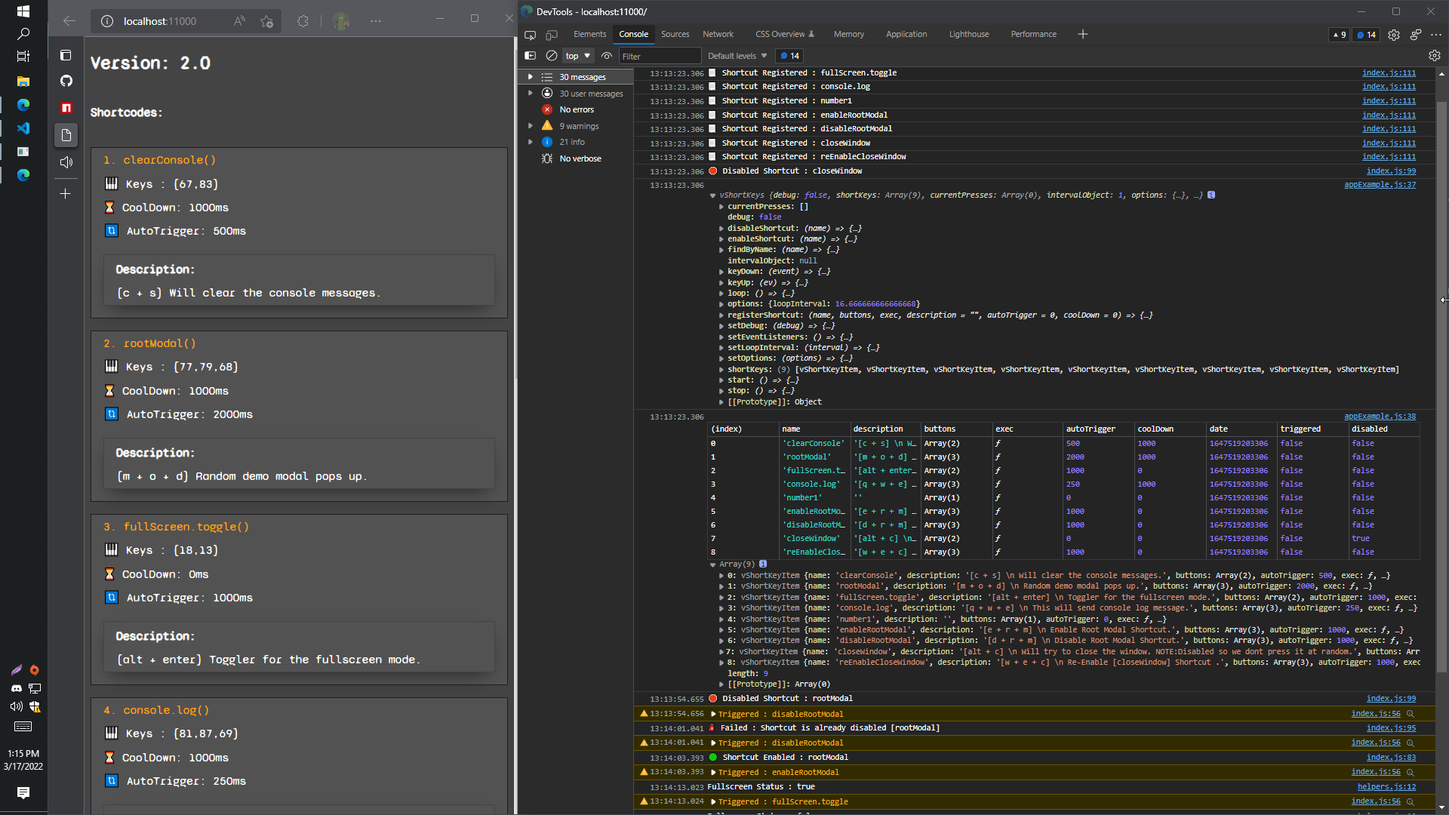
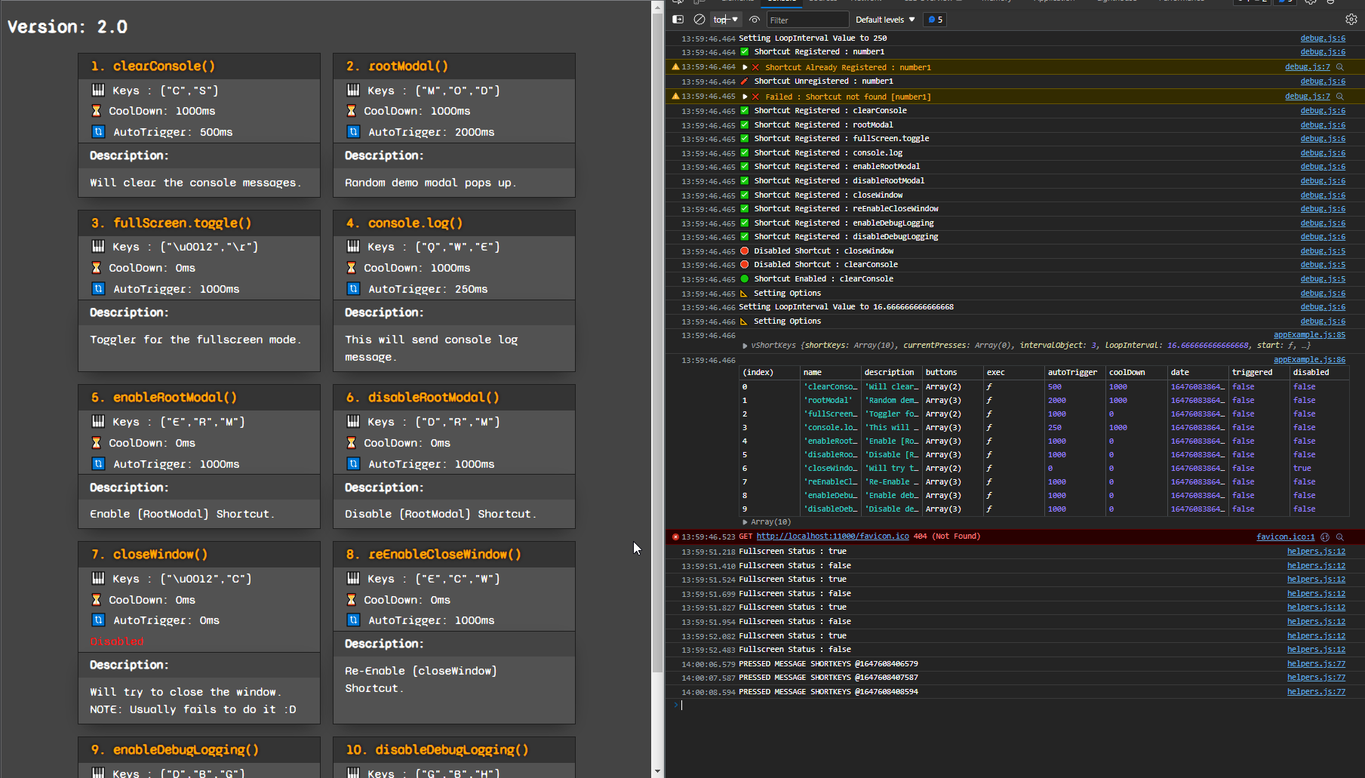
Added .unregisterShortcut() method. Updated example code with a sampleList that gets passed into .map() for registerShortcut(). Added few example lines that show enable/disable/register/unregister shortkey options. Update to Readme to reflect these.

diff --git a/EXAMPLE/public/scripts/vShortKeys.js b/EXAMPLE/public/scripts/vShortKeys.js
@@ -15,7 +15,7 @@
   \**************************************/
 /***/ ((__unused_webpack_module, __unused_webpack_exports, __webpack_require__) => {
 
-eval("//* Loading of some random things to make the example work\r\nconst { closeWindowFunc, fullScreen, toggleRootModal, messageConsoleDemo, clearConsole } = __webpack_require__(/*! ./helpers */ \"./EXAMPLE/source/helpers.js\");\r\n\r\n\r\n//?- - - - - - - - - - -\r\nconst vShortKeys = __webpack_require__(/*! ../../ */ \"./index.js\");\r\nvar vsk = new vShortKeys();\r\n\r\nvsk.setOption({ debug: true, interval: 250 });\r\n\r\nvsk.setOption({ interval: (1000 / 60) });\r\n\r\n//* vShortKeys.registerShortcut(name, buttons, callback, description, autoTrigger, coolDown)\r\n//? Super basic example:\r\nvsk.registerShortcut(\"number1\", [49], () => console.log('YEA Demo Button 1'));\r\n\r\n//? Register few shortcuts:\r\nvsk.registerShortcut(\"clearConsole\", [67, 83], clearConsole, \"Will clear the console messages.\", 500, 1000);\r\nvsk.registerShortcut(\"rootModal\", [77, 79, 68], toggleRootModal, \"Random demo modal pops up.\", 2000, 1000);\r\nvsk.registerShortcut(\"fullScreen.toggle\", [18, 13], fullScreen.toggle, \"Toggler for the fullscreen mode.\", 1000, 0);\r\nvsk.registerShortcut(\"console.log\", [81, 87, 69], messageConsoleDemo, \"This will send console log message.\", 250, 1000);\r\n\r\n//? Enable and Disable \"rootModal\" Shortcut using 2 other.\r\nvsk.registerShortcut(\"enableRootModal\", [69, 82, 77], () => vsk.enableShortcut(\"rootModal\"), \"Enable Root Modal Shortcut.\", 1000, 0);\r\nvsk.registerShortcut(\"disableRootModal\", [68, 82, 77], () => vsk.disableShortcut(\"rootModal\"), \"Disable Root Modal Shortcut.\", 1000, 0);\r\n\r\n//? Probably will not work cuz it needs to open that window before chrome allows you to close it.\r\nvsk.registerShortcut(\"closeWindow\", [18, 67], closeWindowFunc, \"Will try to close the window. NOTE:Disabled so we dont press it at random.\", 0, 0);\r\nvsk.registerShortcut(\"reEnableCloseWindow\", [69, 67, 87], () => vsk.enableShortcut(\"closeWindow\"), \"Re-Enable [closeWindow] Shortcut .\", 1000, 0);\r\n\r\n//? Enable and Disable debug logging using the shortcuts\r\nvsk.registerShortcut(\"enableDebugLogging\", [68, 66, 71], () => vsk.setOption({ debug: true }), \"Enable debug logging\", 1000, 0);\r\nvsk.registerShortcut(\"disableDebugLogging\", [71, 66, 72], () => vsk.setOption({ debug: false }), \"Disable debug logging\", 1000, 0);\r\n\r\n\r\n//? Disable the one that can close the tab. [init demo]\r\nvsk.disableShortcut(\"closeWindow\");\r\n\r\nvsk.setOption({ debug: false });\r\n//!---------------------------------------------\r\n\r\n\r\nconsole.log(vsk);\r\nconsole.table(vsk.shortKeys);\r\n\r\n\r\nvar skList = vsk.shortKeys;\r\n\r\nvar stringShortKeys = '';\r\nfor (let i = 0; i < skList.length; i++) {\r\n  stringShortKeys += `\r\n                        <div class=\"singleShotCode\">\r\n                            <p class=\"name\"><span class=\"number\">${i + 1}. ${skList[i].name}()</span></p>\r\n                            <p>🎹 Keys : ${JSON.stringify(skList[i].buttons.map(item => String.fromCharCode(item)))}</p>\r\n                            <p class=\"delay\">⏳ CoolDown: ${skList[i].coolDown}ms</p>\r\n                            <p class=\"delay\">🔃 AutoTrigger: ${skList[i].autoTrigger}ms</p>\r\n                            ${(skList[i].disabled == true) ? '<p style=\"color:red;\">Disabled</p>' : ''}\r\n                            <div class=\"description\">\r\n                                <h4>Description:</h4>\r\n                                <p>${skList[i].description}</p>\r\n                            </div>\r\n                        </div>\r\n                        `;\r\n}\r\ndocument.querySelector('.docs').innerHTML = stringShortKeys;\r\n\n\n//# sourceURL=webpack://v_shortkeys/./EXAMPLE/source/appExample.js?");
+eval("//* Loading of some random things to make the example work\r\nconst { closeWindowFunc, fullScreen, toggleRootModal, messageConsoleDemo, clearConsole } = __webpack_require__(/*! ./helpers */ \"./EXAMPLE/source/helpers.js\");\r\n\r\n\r\n//?- - - - - - - - - - -\r\nconst vShortKeys = __webpack_require__(/*! ../../ */ \"./index.js\");\r\nvar vsk = new vShortKeys();\r\nvsk.setOption({ debug: true, interval: 250 });\r\n\r\n//* vShortKeys.registerShortcut(name, buttons, callback, description, autoTrigger, coolDown)\r\n\r\n//? Super basic example:\r\n//* Register a shortcut for the number 1 key\r\nvsk.registerShortcut(\"number1\", [49], () => console.log('YEA Demo Button 1'));\r\n\r\n//* This will not work because the button is already registered\r\nvsk.registerShortcut(\"number1\", [50], () => console.log('YEA Demo Button FAILS'));\r\n\r\n//? Unregister a shortcut\r\nvsk.unregisterShortcut(\"number1\");  //-> OK\r\nvsk.unregisterShortcut(\"number1\");  //-> Should Fail...but ok.\r\n\r\n\r\n//? Register few sample shortcuts:\r\nvar sampleKeyList = [\r\n  {\r\n    name: \"clearConsole\",\r\n    buttons: [67, 83],\r\n    callback: clearConsole,\r\n    description: \"Will clear the console messages.\",\r\n    autoTrigger: 500,\r\n    coolDown: 1000\r\n  },\r\n  {\r\n    name: \"rootModal\",\r\n    buttons: [77, 79, 68],\r\n    callback: toggleRootModal,\r\n    description: \"Random demo modal pops up.\",\r\n    autoTrigger: 2000,\r\n    coolDown: 1000\r\n  },\r\n  {\r\n    name: \"fullScreen.toggle\",\r\n    buttons: [18, 13],\r\n    callback: fullScreen.toggle,\r\n    description: \"Toggler for the fullscreen mode.\",\r\n    autoTrigger: 1000,\r\n    coolDown: 0\r\n  },\r\n  {\r\n    name: \"console.log\",\r\n    buttons: [81, 87, 69],\r\n    callback: messageConsoleDemo,\r\n    description: \"This will send console log message.\",\r\n    autoTrigger: 250,\r\n    coolDown: 1000\r\n  },\r\n];\r\nsampleKeyList.map(item => vsk.registerShortcut(item.name, item.buttons, item.callback, item.description, item.autoTrigger, item.coolDown));\r\n\r\n//? Enable and Disable \"rootModal\" Shortcut using 2 other.\r\nvsk.registerShortcut(\"enableRootModal\", [69, 82, 77], () => vsk.enableShortcut(\"rootModal\"), \"Enable [RootModal] Shortcut.\", 1000, 0);\r\nvsk.registerShortcut(\"disableRootModal\", [68, 82, 77], () => vsk.disableShortcut(\"rootModal\"), \"Disable [RootModal] Shortcut.\", 1000, 0);\r\n\r\n//? Probably will not work cuz it needs to open that window before chrome allows you to close it.\r\nvsk.registerShortcut(\"closeWindow\", [18, 67], closeWindowFunc, \"Will try to close the window. \\nNOTE: Usually fails to do it :D\", 0, 0);\r\nvsk.registerShortcut(\"reEnableCloseWindow\", [69, 67, 87], () => vsk.enableShortcut(\"closeWindow\"), \"Re-Enable [closeWindow] Shortcut.\", 1000, 0);\r\n\r\n//? Enable and Disable debug logging using the shortcuts\r\nvsk.registerShortcut(\"enableDebugLogging\", [68, 66, 71], () => vsk.setOption({ debug: true }), \"Enable debug logging\", 1000, 0);\r\nvsk.registerShortcut(\"disableDebugLogging\", [71, 66, 72], () => vsk.setOption({ debug: false }), \"Disable debug logging\", 1000, 0);\r\n\r\n//? Disable & Enable\r\nvsk.disableShortcut(\"closeWindow\");\r\nvsk.disableShortcut(\"clearConsole\");\r\nvsk.enableShortcut(\"clearConsole\");\r\n\r\n//? Set interval to 60Hz\r\nvsk.setOption({ interval: (1000 / 60) });\r\n//? Disable debug logging\r\nvsk.setOption({ debug: false });\r\n//!---------------------------------------------\r\n\r\n\r\nconsole.log(vsk);\r\nconsole.table(vsk.shortKeys);\r\n\r\n\r\nvar skList = vsk.shortKeys;\r\n\r\nvar stringShortKeys = '';\r\nfor (let i = 0; i < skList.length; i++) {\r\n  stringShortKeys += `\r\n                        <div class=\"singleShotCode\">\r\n                            <p class=\"name\"><span class=\"number\">${i + 1}. ${skList[i].name}()</span></p>\r\n                            <p>🎹 Keys : ${JSON.stringify(skList[i].buttons.map(item => String.fromCharCode(item)))}</p>\r\n                            <p class=\"delay\">⏳ CoolDown: ${skList[i].coolDown}ms</p>\r\n                            <p class=\"delay\">🔃 AutoTrigger: ${skList[i].autoTrigger}ms</p>\r\n                            ${(skList[i].disabled == true) ? '<p style=\"color:red;\">Disabled</p>' : ''}\r\n                            <div class=\"description\">\r\n                                <h4>Description:</h4>\r\n                                <p>${skList[i].description}</p>\r\n                            </div>\r\n                        </div>\r\n                        `;\r\n}\r\ndocument.querySelector('.docs').innerHTML = stringShortKeys;\r\n\n\n//# sourceURL=webpack://v_shortkeys/./EXAMPLE/source/appExample.js?");
 
 /***/ }),
 
@@ -55,7 +55,7 @@ eval("var debug = false;\r\n\r\nmodule.exports = {\r\n\r\n  log: (data) => (debu
   \**********************/
 /***/ ((module, __unused_webpack_exports, __webpack_require__) => {
 
-eval("const vShortKeyItem = __webpack_require__(/*! ./shortcut-item-class */ \"./src/shortcut-item-class.js\");\r\n\r\nconst dbg = __webpack_require__(/*! ./debug */ \"./src/debug.js\");\r\nconst { log, warn, info } = dbg;\r\n\r\nmodule.exports = function vShortKeys(data = {}) {\r\n  this.shortKeys = data.shortKeys || [];\r\n  this.currentPresses = [];\r\n  this.intervalObject = null;\r\n\r\n  this.options = {\r\n    loopInterval: (1000 / 60), // loop interval in milliseconds\r\n  };\r\n\r\n  //? Start and stop methods.\r\n  this.start = () => {\r\n    this.intervalObject = setInterval(this.loop, this.options.loopInterval);\r\n  };\r\n\r\n  this.stop = () => {\r\n    clearInterval(this.intervalObject);\r\n    this.intervalObject = null;\r\n    this.currentPresses = [];\r\n  };\r\n\r\n  //? Main Looping Function\r\n  this.loop = () => {\r\n    if (this.currentPresses.length > 0) {\r\n      log(this.currentPresses);\r\n      var i, j;\r\n      for (i = 0; i < this.shortKeys.length; i++) {\r\n        if (this.shortKeys[i].disabled !== true) {\r\n          var btnNum = this.shortKeys[i].buttons.length;\r\n          for (j = 0; j < this.shortKeys[i].buttons.length; j++) {\r\n            if (this.currentPresses.indexOf(this.shortKeys[i].buttons[j]) > -1) {\r\n              btnNum--;\r\n            }\r\n          }\r\n          if (btnNum == 0) {\r\n            var timeDelta = Date.now() - this.shortKeys[i].date;\r\n            if (((this.shortKeys[i].triggered == false) || (timeDelta > this.shortKeys[i].autoTrigger)) && (timeDelta > this.shortKeys[i].coolDown)) {\r\n              this.shortKeys[i].exec();\r\n              this.shortKeys[i].date = Date.now();\r\n              this.shortKeys[i].triggered = true;\r\n              warn(`Triggered : ${this.shortKeys[i].name}`);\r\n            }\r\n          } else {\r\n            if (this.shortKeys[i].triggered) this.shortKeys[i].triggered = false;\r\n          }\r\n        }\r\n      }\r\n    }\r\n\r\n  };\r\n\r\n  this.findByName = (name) => {\r\n    for (var i = 0; i < this.shortKeys.length; i++) {\r\n      if (this.shortKeys[i].name == name) return this.shortKeys[i];\r\n    }\r\n    return null;\r\n  };\r\n\r\n  //? Enable/Disable Shortcut\r\n  this.enableShortcut = (name) => {\r\n    try {\r\n      var item = this.findByName(name);\r\n      if (item.disabled !== true) {\r\n        log(`🧯 Failed : Shortcut is already enabled [${name}]`);\r\n        return false;\r\n      } else {\r\n        item.disabled = false;\r\n        log(`🟢 Shortcut Enabled : ${name}`);\r\n        return true;\r\n      }\r\n    } catch (err) {\r\n      return err;\r\n    }\r\n  };\r\n\r\n  this.disableShortcut = (name) => {\r\n    try {\r\n      var item = this.findByName(name);\r\n      if (item.disabled) {\r\n        log(`🧯 Failed : Shortcut is already disabled [${name}]`);\r\n        return false;\r\n      } else {\r\n        this.findByName(name).disabled = true;\r\n        log(`🛑 Disabled Shortcut : ${name}`);\r\n        return true;\r\n      }\r\n    } catch (err) {\r\n      return err;\r\n    }\r\n  };\r\n\r\n  //? Method to register new Shortcuts\r\n  this.registerShortcut = (name, buttons, exec, description = \"\", autoTrigger = 0, coolDown = 0) => {\r\n    var newItem = new vShortKeyItem(name, buttons, exec, description, autoTrigger, coolDown);\r\n    this.shortKeys.push(newItem);\r\n    log(`📃 Shortcut Registered : ${name}`);\r\n  };\r\n\r\n  //? Event Handlers [ KeyDown, KeyUp ]\r\n  this.keyDown = (event) => {\r\n    var key = event.keyCode;\r\n    if (!this.currentPresses.includes(key)) {\r\n      this.currentPresses.push(key);\r\n    }\r\n  };\r\n\r\n  this.keyUp = (ev) => {\r\n    var key = ev.keyCode;\r\n    var index = this.currentPresses.indexOf(key);\r\n    if (index > -1) {\r\n      this.currentPresses.splice(index, 1);\r\n    }\r\n  };\r\n\r\n  this.setLoopInterval = (interval) => {\r\n    try {\r\n      info(`Setting LoopInterval Value to ${interval}`);\r\n      this.options.loopInterval = interval;\r\n      this.stop();\r\n      this.start();\r\n      return true;\r\n    } catch (err) {\r\n      warn(err);\r\n      return false;\r\n    }\r\n  };\r\n\r\n  this.setOption = (options = {}) => {\r\n    info(`📐 Setting Options`);\r\n    if (options.debug !== undefined) dbg.debug = options.debug;\r\n    if (options.interval !== undefined) this.setLoopInterval(options.interval);\r\n  };\r\n\r\n\r\n  this.setEventListeners = () => {\r\n    window.addEventListener(\"keydown\", this.keyDown);\r\n    window.addEventListener(\"keyup\", this.keyUp);\r\n    window.addEventListener('blur', this.stop);\r\n    window.addEventListener('focus', this.start);\r\n    return this;\r\n  };\r\n\r\n  //* In case some options have been passed in.\r\n  if (data.options !== undefined) this.setOption(data.options);\r\n\r\n  this.setEventListeners();\r\n  this.start();\r\n};\r\n\r\n\n\n//# sourceURL=webpack://v_shortkeys/./src/index.js?");
+eval("const vShortKeyItem = __webpack_require__(/*! ./shortcut-item-class */ \"./src/shortcut-item-class.js\");\r\n\r\nconst dbg = __webpack_require__(/*! ./debug */ \"./src/debug.js\");\r\nconst { log, warn, info } = dbg;\r\n\r\nmodule.exports = function vShortKeys(data = {}) {\r\n  this.shortKeys = data.shortKeys || [];\r\n  this.currentPresses = [];\r\n  this.intervalObject = null;\r\n  this.loopInterval = (1000 / 60); // loop interval in milliseconds\r\n\r\n  //? Start and stop methods.\r\n  this.start = () => {\r\n    this.intervalObject = setInterval(this.loop, this.loopInterval);\r\n  };\r\n\r\n  this.stop = () => {\r\n    clearInterval(this.intervalObject);\r\n    this.intervalObject = null;\r\n    this.currentPresses = [];\r\n  };\r\n\r\n  //? Main Looping Function\r\n  this.loop = () => {\r\n    if (this.currentPresses.length > 0) {\r\n      log(this.currentPresses);\r\n      var i, j;\r\n      for (i = 0; i < this.shortKeys.length; i++) {\r\n        if (this.shortKeys[i].disabled !== true) {\r\n          var btnNum = this.shortKeys[i].buttons.length;\r\n          for (j = 0; j < this.shortKeys[i].buttons.length; j++) {\r\n            if (this.currentPresses.indexOf(this.shortKeys[i].buttons[j]) > -1) {\r\n              btnNum--;\r\n            }\r\n          }\r\n          if (btnNum == 0) {\r\n            var timeDelta = Date.now() - this.shortKeys[i].date;\r\n            if (((this.shortKeys[i].triggered == false) || (timeDelta > this.shortKeys[i].autoTrigger)) && (timeDelta > this.shortKeys[i].coolDown)) {\r\n              this.shortKeys[i].exec();\r\n              this.shortKeys[i].date = Date.now();\r\n              this.shortKeys[i].triggered = true;\r\n              warn(`Triggered : ${this.shortKeys[i].name}`);\r\n            }\r\n          } else {\r\n            if (this.shortKeys[i].triggered) this.shortKeys[i].triggered = false;\r\n          }\r\n        }\r\n      }\r\n    }\r\n\r\n  };\r\n\r\n  this.findByName = (name) => {\r\n    for (var i = 0; i < this.shortKeys.length; i++) {\r\n      if (this.shortKeys[i].name == name) return this.shortKeys[i];\r\n    }\r\n    return null;\r\n  };\r\n\r\n  //? Enable/Disable Shortcut\r\n  this.enableShortcut = (name) => {\r\n    try {\r\n      var item = this.findByName(name);\r\n      if (item.disabled !== true) {\r\n        log(`🧯 Failed : Shortcut is already enabled [${name}]`);\r\n        return false;\r\n      } else {\r\n        item.disabled = false;\r\n        log(`🟢 Shortcut Enabled : ${name}`);\r\n        return true;\r\n      }\r\n    } catch (err) {\r\n      return err;\r\n    }\r\n  };\r\n\r\n  this.disableShortcut = (name) => {\r\n    try {\r\n      var item = this.findByName(name);\r\n      if (item.disabled) {\r\n        log(`🧯 Failed : Shortcut is already disabled [${name}]`);\r\n        return false;\r\n      } else {\r\n        this.findByName(name).disabled = true;\r\n        log(`🛑 Disabled Shortcut : ${name}`);\r\n        return true;\r\n      }\r\n    } catch (err) {\r\n      return err;\r\n    }\r\n  };\r\n\r\n\r\n  //? Method to [un]register new Shortcuts\r\n  this.registerShortcut = (name, buttons, exec, description = \"\", autoTrigger = 0, coolDown = 0) => {\r\n    var item = this.findByName(name);\r\n    if (item === null) {\r\n      var newItem = new vShortKeyItem(name, buttons, exec, description, autoTrigger, coolDown);\r\n      this.shortKeys.push(newItem);\r\n      info(`✅ Shortcut Registered : ${name}`);\r\n    } else {\r\n      return warn(`❌ Shortcut Already Registered : ${name}`);\r\n    }\r\n  };\r\n\r\n  this.unregisterShortcut = (name) => {\r\n    var item = this.findByName(name);\r\n    if (item) {\r\n      this.shortKeys.splice(this.shortKeys.indexOf(item), 1);\r\n      info(`🧨 Shortcut Unregistered : ${name}`);\r\n    } else {\r\n      warn(`❌ Failed : Shortcut not found [${name}]`);\r\n    }\r\n  };\r\n\r\n\r\n  //? Event Handlers [ KeyDown, KeyUp ]\r\n  this.keyDown = (event) => {\r\n    var key = event.keyCode;\r\n    if (!this.currentPresses.includes(key)) {\r\n      this.currentPresses.push(key);\r\n    }\r\n  };\r\n\r\n  this.keyUp = (ev) => {\r\n    var key = ev.keyCode;\r\n    var index = this.currentPresses.indexOf(key);\r\n    if (index > -1) {\r\n      this.currentPresses.splice(index, 1);\r\n    }\r\n  };\r\n\r\n\r\n  //? Handle setting different interval\r\n  this.setLoopInterval = (interval) => {\r\n    try {\r\n      info(`Setting LoopInterval Value to ${interval}`);\r\n      this.loopInterval = interval;\r\n      this.stop();\r\n      this.start();\r\n      return this;\r\n    } catch (err) {\r\n      return (err);\r\n    }\r\n  };\r\n\r\n  //? Method to set option[s]\r\n  this.setOption = (options = {}) => {\r\n    info(`📐 Setting Options`);\r\n    if (options.debug !== undefined) dbg.debug = options.debug;\r\n    if (options.interval !== undefined) this.setLoopInterval(options.interval);\r\n  };\r\n\r\n\r\n  this.setEventListeners = () => {\r\n    window.addEventListener(\"keydown\", this.keyDown);\r\n    window.addEventListener(\"keyup\", this.keyUp);\r\n    window.addEventListener('blur', this.stop);\r\n    window.addEventListener('focus', this.start);\r\n    return this;\r\n  };\r\n\r\n  //* In case some options have been passed in.\r\n  if (data.options !== undefined) this.setOption(data.options);\r\n\r\n  this.setEventListeners();\r\n  this.start();\r\n};\r\n\r\n\n\n//# sourceURL=webpack://v_shortkeys/./src/index.js?");
 
 /***/ }),
 

diff --git a/EXAMPLE/source/appExample.js b/EXAMPLE/source/appExample.js
@@ -5,37 +5,79 @@ const { closeWindowFunc, fullScreen, toggleRootModal, messageConsoleDemo, clearC
 //?- - - - - - - - - - -
 const vShortKeys = require('../../');
 var vsk = new vShortKeys();
-
 vsk.setOption({ debug: true, interval: 250 });
 
-vsk.setOption({ interval: (1000 / 60) });
-
 //* vShortKeys.registerShortcut(name, buttons, callback, description, autoTrigger, coolDown)
+
 //? Super basic example:
+//* Register a shortcut for the number 1 key
 vsk.registerShortcut("number1", [49], () => console.log('YEA Demo Button 1'));
 
-//? Register few shortcuts:
-vsk.registerShortcut("clearConsole", [67, 83], clearConsole, "Will clear the console messages.", 500, 1000);
-vsk.registerShortcut("rootModal", [77, 79, 68], toggleRootModal, "Random demo modal pops up.", 2000, 1000);
-vsk.registerShortcut("fullScreen.toggle", [18, 13], fullScreen.toggle, "Toggler for the fullscreen mode.", 1000, 0);
-vsk.registerShortcut("console.log", [81, 87, 69], messageConsoleDemo, "This will send console log message.", 250, 1000);
+//* This will not work because the button is already registered
+vsk.registerShortcut("number1", [50], () => console.log('YEA Demo Button FAILS'));
+
+//? Unregister a shortcut
+vsk.unregisterShortcut("number1");  //-> OK
+vsk.unregisterShortcut("number1");  //-> Should Fail...but ok.
+
+
+//? Register few sample shortcuts:
+var sampleKeyList = [
+  {
+    name: "clearConsole",
+    buttons: [67, 83],
+    callback: clearConsole,
+    description: "Will clear the console messages.",
+    autoTrigger: 500,
+    coolDown: 1000
+  },
+  {
+    name: "rootModal",
+    buttons: [77, 79, 68],
+    callback: toggleRootModal,
+    description: "Random demo modal pops up.",
+    autoTrigger: 2000,
+    coolDown: 1000
+  },
+  {
+    name: "fullScreen.toggle",
+    buttons: [18, 13],
+    callback: fullScreen.toggle,
+    description: "Toggler for the fullscreen mode.",
+    autoTrigger: 1000,
+    coolDown: 0
+  },
+  {
+    name: "console.log",
+    buttons: [81, 87, 69],
+    callback: messageConsoleDemo,
+    description: "This will send console log message.",
+    autoTrigger: 250,
+    coolDown: 1000
+  },
+];
+sampleKeyList.map(item => vsk.registerShortcut(item.name, item.buttons, item.callback, item.description, item.autoTrigger, item.coolDown));
 
 //? Enable and Disable "rootModal" Shortcut using 2 other.
-vsk.registerShortcut("enableRootModal", [69, 82, 77], () => vsk.enableShortcut("rootModal"), "Enable Root Modal Shortcut.", 1000, 0);
-vsk.registerShortcut("disableRootModal", [68, 82, 77], () => vsk.disableShortcut("rootModal"), "Disable Root Modal Shortcut.", 1000, 0);
+vsk.registerShortcut("enableRootModal", [69, 82, 77], () => vsk.enableShortcut("rootModal"), "Enable [RootModal] Shortcut.", 1000, 0);
+vsk.registerShortcut("disableRootModal", [68, 82, 77], () => vsk.disableShortcut("rootModal"), "Disable [RootModal] Shortcut.", 1000, 0);
 
 //? Probably will not work cuz it needs to open that window before chrome allows you to close it.
-vsk.registerShortcut("closeWindow", [18, 67], closeWindowFunc, "Will try to close the window. NOTE:Disabled so we dont press it at random.", 0, 0);
-vsk.registerShortcut("reEnableCloseWindow", [69, 67, 87], () => vsk.enableShortcut("closeWindow"), "Re-Enable [closeWindow] Shortcut .", 1000, 0);
+vsk.registerShortcut("closeWindow", [18, 67], closeWindowFunc, "Will try to close the window. \nNOTE: Usually fails to do it :D", 0, 0);
+vsk.registerShortcut("reEnableCloseWindow", [69, 67, 87], () => vsk.enableShortcut("closeWindow"), "Re-Enable [closeWindow] Shortcut.", 1000, 0);
 
 //? Enable and Disable debug logging using the shortcuts
 vsk.registerShortcut("enableDebugLogging", [68, 66, 71], () => vsk.setOption({ debug: true }), "Enable debug logging", 1000, 0);
 vsk.registerShortcut("disableDebugLogging", [71, 66, 72], () => vsk.setOption({ debug: false }), "Disable debug logging", 1000, 0);
 
-
-//? Disable the one that can close the tab. [init demo]
+//? Disable & Enable
 vsk.disableShortcut("closeWindow");
+vsk.disableShortcut("clearConsole");
+vsk.enableShortcut("clearConsole");
 
+//? Set interval to 60Hz
+vsk.setOption({ interval: (1000 / 60) });
+//? Disable debug logging
 vsk.setOption({ debug: false });
 //!---------------------------------------------
 

diff --git a/src/index.js b/src/index.js
@@ -7,14 +7,11 @@ module.exports = function vShortKeys(data = {}) {
   this.shortKeys = data.shortKeys || [];
   this.currentPresses = [];
   this.intervalObject = null;
-
-  this.options = {
-    loopInterval: (1000 / 60), // loop interval in milliseconds
-  };
+  this.loopInterval = (1000 / 60); // loop interval in milliseconds
 
   //? Start and stop methods.
   this.start = () => {
-    this.intervalObject = setInterval(this.loop, this.options.loopInterval);
+    this.intervalObject = setInterval(this.loop, this.loopInterval);
   };
 
   this.stop = () => {
@@ -93,12 +90,29 @@ module.exports = function vShortKeys(data = {}) {
     }
   };
 
-  //? Method to register new Shortcuts
+
+  //? Method to [un]register new Shortcuts
   this.registerShortcut = (name, buttons, exec, description = "", autoTrigger = 0, coolDown = 0) => {
-    var newItem = new vShortKeyItem(name, buttons, exec, description, autoTrigger, coolDown);
-    this.shortKeys.push(newItem);
-    log(`📃 Shortcut Registered : ${name}`);
+    var item = this.findByName(name);
+    if (item === null) {
+      var newItem = new vShortKeyItem(name, buttons, exec, description, autoTrigger, coolDown);
+      this.shortKeys.push(newItem);
+      info(`✅ Shortcut Registered : ${name}`);
+    } else {
+      return warn(`❌ Shortcut Already Registered : ${name}`);
+    }
   };
+
+  this.unregisterShortcut = (name) => {
+    var item = this.findByName(name);
+    if (item) {
+      this.shortKeys.splice(this.shortKeys.indexOf(item), 1);
+      info(`🧨 Shortcut Unregistered : ${name}`);
+    } else {
+      warn(`❌ Failed : Shortcut not found [${name}]`);
+    }
+  };
+
 
   //? Event Handlers [ KeyDown, KeyUp ]
   this.keyDown = (event) => {
@@ -116,19 +130,21 @@ module.exports = function vShortKeys(data = {}) {
     }
   };
 
+
+  //? Handle setting different interval
   this.setLoopInterval = (interval) => {
     try {
       info(`Setting LoopInterval Value to ${interval}`);
-      this.options.loopInterval = interval;
+      this.loopInterval = interval;
       this.stop();
       this.start();
-      return true;
+      return this;
     } catch (err) {
-      warn(err);
-      return false;
+      return (err);
     }
   };
 
+  //? Method to set option[s]
   this.setOption = (options = {}) => {
     info(`📐 Setting Options`);
     if (options.debug !== undefined) dbg.debug = options.debug;

diff --git a/README.md b/README.md
@@ -2,9 +2,7 @@
 
 Simple way to have Keyboard Shortcuts with auto-triggering, cooldown times, and more.
 
-## ALPHA VERSION : 004 ;
-
-## ! NOT READY FOR USE !
+## ALPHA VERSION : NOT READY FOR USE !
 
 #
 
@@ -17,7 +15,10 @@ Simple way to have Keyboard Shortcuts with auto-triggering, cooldown times, and 
     const vShortKeys = require('v_shortkeys');
     var vsk = new vShortKeys();
 
-    vsk.registerShortcut("number1", [49], () => console.log('YEA Demo Button 1'));
+    vsk.registerShortcut("number1", [49], () => console.log('YEA Demo Button 1')); //-> Registers new keyCombo
+    vsk.disableShortcut("number1"); //-> Sets disabled status to TRUE
+    vsk.enableShortcut("number1");  //-> ReEnables it by setting it now to FALSE
+    vsk.unregisterShortcut("number1");  //-> Unregister that shortcut, remove this to keep it working.
 
 This will execute passed function when user presses key 49 which is actually "Number 1" key.
 
@@ -42,6 +43,12 @@ This will execute passed function when user presses key 49 which is actually "Nu
 > - autoTrigger : Number / ms to wait before re-triggering
 > - coolDown : Number / ms to wait before being able to trigger it again
 
+#### 🔻 **Unregister Shortcut**
+
+- _Will Remove shortcut/key-combo from the list. Uses name to find it_
+
+      vsk.unregisterShortcut( name );
+
 #### 🚫 **Disable Item**
 
 - _Will Disable a shortcut/key-combo by Name as String._
@@ -59,9 +66,9 @@ This will execute passed function when user presses key 49 which is actually "Nu
 - _Set the loop interval time in milliseconds as number._
 
       // Default: (1000 ms / 60) => 60hz
-      vsk.setOption({ interval : 10 });
+      vsk.setOption({ interval : (1000 ms / 60) });
 
-#### 🌀 **Enable Debug Logging**
+#### 🌀 **Enable/Disable Debug Logging**
 
 - _Enable logging to console for debug._
 
@@ -82,6 +89,11 @@ This will execute passed function when user presses key 49 which is actually "Nu
     vsk.registerShortcut("rootModal", [77, 79, 68], toggleRootModal, "[m + o + d] \n Random demo modal pops up.", 2000, 1000);
     vsk.registerShortcut("fullScreen.toggle", [18, 13], fullScreen.toggle, "[alt + enter] \n Toggler for the fullscreen mode.", 1000, 0);
     vsk.registerShortcut("console.log", [81, 87, 69], messageConsoleDemo, "[q + w + e] \n This will send console log message.", 250, 1000);
+
+    vsk.unregisterShortcut("clearConsole");
+    vsk.disableShortcut("rootModal");
+
+    // Check the ./EXAMPLE/source/appExample.js for more ways to configure and init
 
 Additional Screenshot From The Example:
 ![Example Running these from the Folder ./EXAMPLE/ ](./EXAMPLE/public/images/demo01.png)
